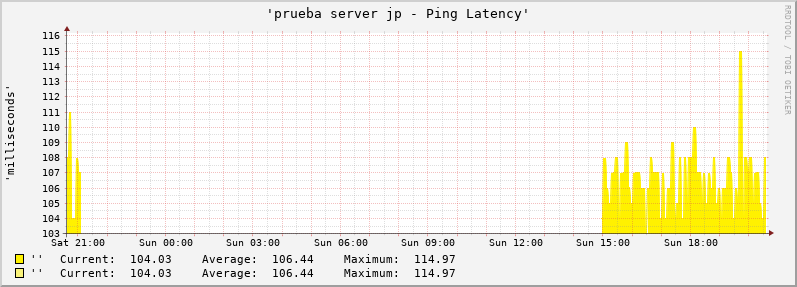
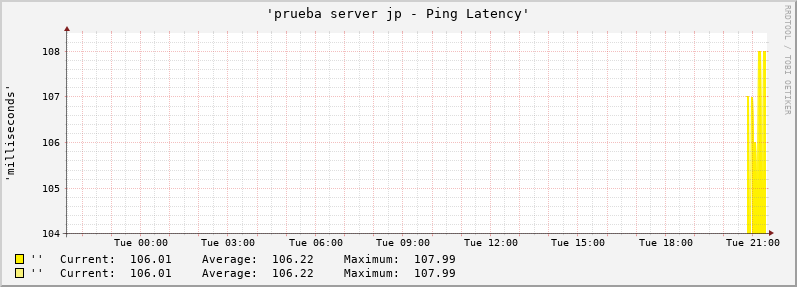
revisar configuracion para mostrar graficas

diff --git a/monitoreo_react/src/pages/serversGraph/serversGraph.js b/monitoreo_react/src/pages/serversGraph/serversGraph.js
@@ -8,7 +8,7 @@ const ServersGraph = () => {
 	const URI = "http://localhost:8081/";
 	const apiGraphs = 'rrdtools/graphs.php';
 	let { id } = useParams();
-	let graphs = useInitialState(URI + apiGraphs);
+	let graphs = useInitialState(URI + apiGraphs + "?hostId=" + id);
 
 	return (
 		<div>
@@ -241,9 +241,10 @@ const ServersGraph = () => {
 			</div>
 			<div className="row">
 				{
-					graphs.map(graph => 
-						<Graph key={graph.id} {...graph} />
-					)
+					graphs &&
+						graphs.map(graph => 
+							<Graph key={graph.id} {...graph} />
+						)
 				}
 			</div>
 		</div>

diff --git a/apis/cacti/rrdtools/graphs.php b/apis/cacti/rrdtools/graphs.php
@@ -22,7 +22,6 @@ function generateGraph($time = "-1d", $graphArray = []){
 		'MAX',
 		'LAST'
 	);
-
 	$hostNagiosQuery = $pdoNagios->prepare('SELECT address FROM nagios_hosts WHERE host_id = :serverId');
 	$hostNagiosQuery->execute([':serverId' => $_GET['hostId']]);
 	$hostNagiosResult = $hostNagiosQuery->fetchAll(PDO::FETCH_ASSOC);
@@ -31,7 +30,7 @@ function generateGraph($time = "-1d", $graphArray = []){
 	$hostCactiQuery->execute([':serverId' => $hostNagiosResult[0]['address']]);
 	$hostCactiResult = $hostCactiQuery->fetchAll(PDO::FETCH_ASSOC);	
 
-	if (empty($hostCactiResult)) {
+	if (!$hostCactiResult) {
 		echo false;
 		return;
 	}
@@ -130,7 +129,6 @@ function generateGraph($time = "-1d", $graphArray = []){
 
 		if(!is_array($ret)) {
 		    $err = rrd_error();
-		    echo "rrd_graph() ERROR: $err\n";
 	  	}else{
 	  		$typeImage = pathinfo($imagesPath, PATHINFO_EXTENSION);
 		  	$dataImage = file_get_contents($imagesPath);
